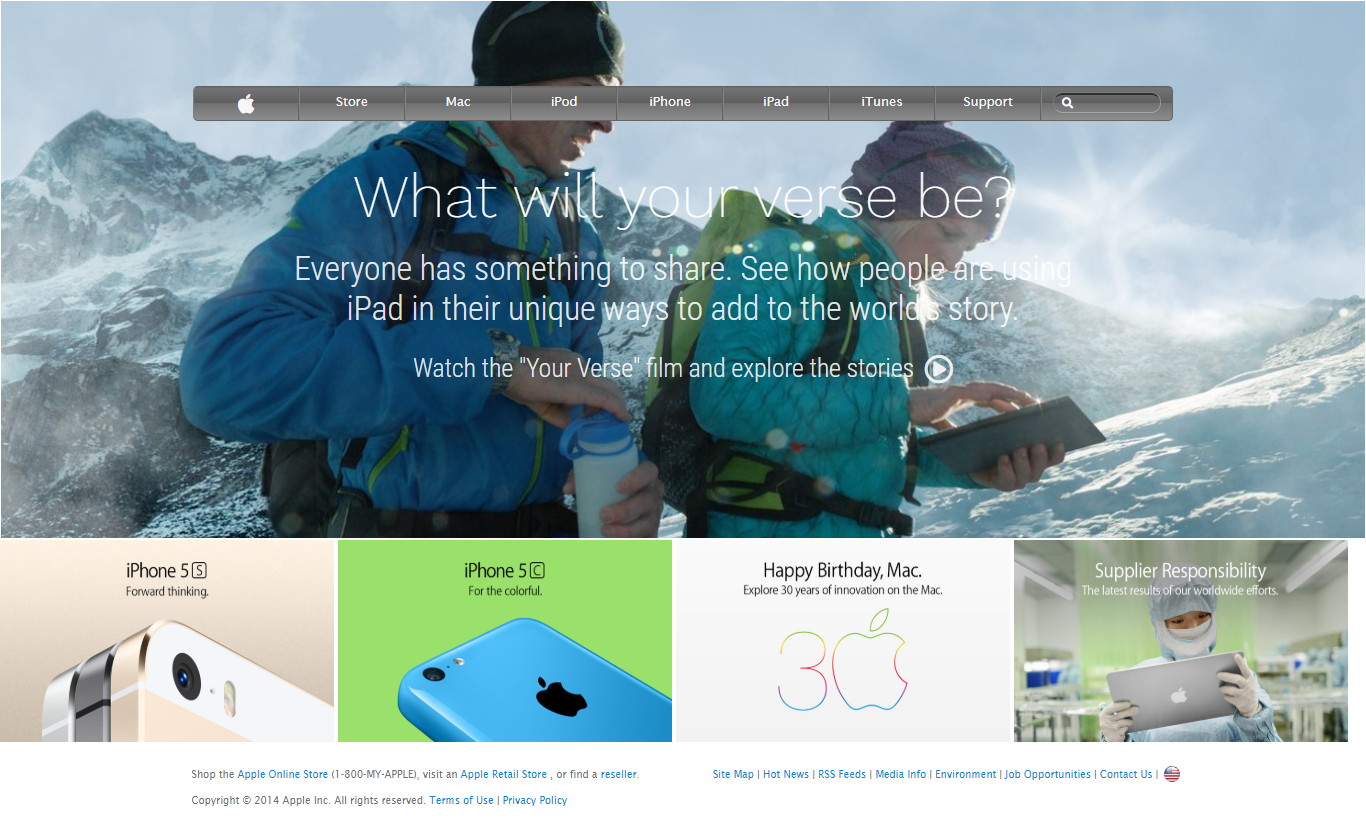
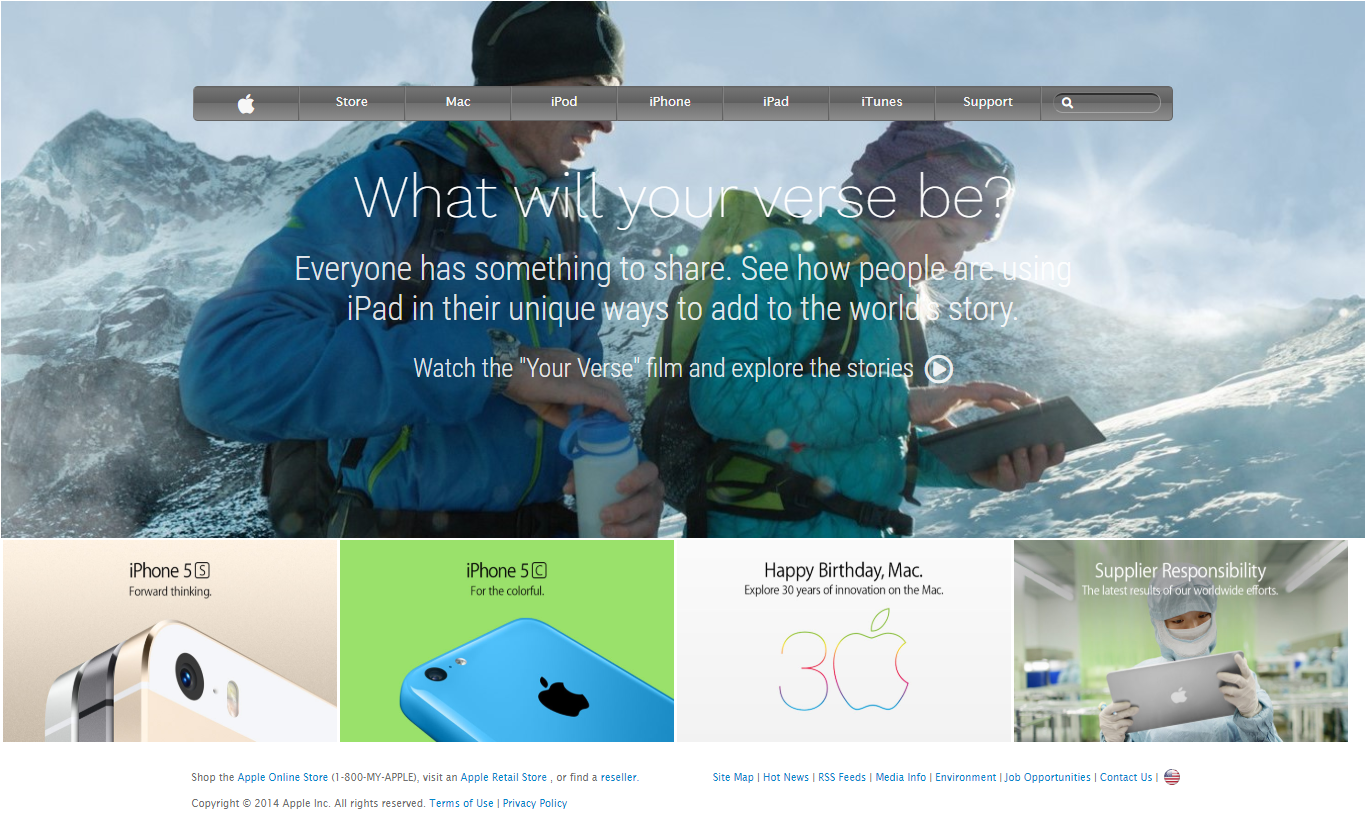
Wrapped nav elements in <a> tag. Wrapped bottom four pictures in <a> tag. Updated readme file. Used float instead of grid on bottom 4 pics

diff --git a/index.html b/index.html
@@ -14,18 +14,33 @@
     <div class="background-div">
       <nav>
         <div class="nav-div">
-          <a href="#" class="nav-link">
+          <span class="nav-link">
             <span class="nav-span nav-head">
-              <i class="fab fa-apple logo-icon"></i>
+              <a href="">
+                <i class="fab fa-apple logo-icon"></i></a>
             </span>
-            <span class="nav-span">Store</span>
-            <span class="nav-span">Mac</span>
-            <span class="nav-span">iPod</span>
-            <span class="nav-span">iPhone</span>
-            <span class="nav-span">iPad</span>
-            <span class="nav-span">iTunes</span>
-            <span class="nav-span">Support</span>
-          </a>
+            <span class="nav-span">
+              <a href="#">Store</a>
+            </span>
+            <span class="nav-span">
+              <a href="#">Mac</a>
+            </span>
+            <span class="nav-span">
+              <a href="#">iPod</a>
+            </span>
+            <span class="nav-span">
+              <a href="#">iPhone</a>
+            </span>
+            <span class="nav-span">
+              <a href="#">iPad</a>
+            </span>
+            <span class="nav-span">
+              <a href="#">iTunes</a>
+            </span>
+            <span class="nav-span">
+              <a href="#">Support</a>
+            </span>
+          </span>
           <span class="nav-span s-box">
             <span class="search-span">
               <input type="text" class="s-input">
@@ -55,11 +70,19 @@
 
     </div>
     <main>
-      <div class="promo-grid-cont">
-        <img src="./images/promo_iphone5s_2x.jpg" alt="iphone 5s">
-        <img src="./images/promo_iphone5c_2x.jpg" alt="iphone 5c">
-        <img src="./images/promo_30_years_2x.jpg" alt="30 years anniversary">
-        <img src="./images/promo_supplier_responsibility_2x.jpg" alt="supplier responsibility">
+      <div class="promo-float-cont">
+        <a href="#" class="img-link">
+          <img src="./images/promo_iphone5s_2x.jpg" alt="iphone 5s">
+        </a>
+        <a href="#" class="img-link">
+          <img src="./images/promo_iphone5c_2x.jpg" alt="iphone 5c">
+        </a>
+        <a href="#" class="img-link">
+          <img src="./images/promo_30_years_2x.jpg" alt="30 years anniversary">
+        </a>
+        <a href="#" class="img-link">
+          <img src="./images/promo_supplier_responsibility_2x.jpg" alt="supplier responsibility">
+        </a>
       </div>
     </main>
     <footer>

diff --git a/style.css b/style.css
@@ -7,7 +7,7 @@
 .background-div {
   background: url(./images/background-img.jpg) no-repeat;
   background-size: cover;
-  width: 100%;
+  min-width: 1350px;
   height: 538px;
   border: 1px solid transparent;
 }
@@ -25,12 +25,10 @@ nav {
 }
 
 .nav-link {
-  text-decoration: none;
   display: flex;
   flex-flow: row nowrap;
   font-family: 'Lucida Sans', 'Lucida Sans Regular', 'Lucida Grande', 'Lucida Sans Unicode', Verdana, sans-serif;
   font-size: 0.8em;
-  color: rgb(247, 247, 247);
 }
 
 .nav-span {
@@ -42,6 +40,14 @@ nav {
   border: 1px solid #646464;
   border-left: 1px outset #808080;
   text-align: center;
+}
+
+.nav-span>a {
+  display: inline-block;
+  width: 100%;
+  height: 100%;
+  text-decoration: none;
+  color: rgb(247, 247, 247);
   padding: 9px;
 }
 
@@ -60,6 +66,7 @@ nav {
   width: 136px;
   border-top-right-radius: 5px;
   border-bottom-right-radius: 5px;
+  padding: 9px;
 }
 
 .s-box:hover {
@@ -114,26 +121,29 @@ nav {
 }
 
 .section-h1 {
-  font-size: 3.8rem;
+  font-size: 60.8px;
   font-weight: 200;
   letter-spacing: 0;
   color: #fff;
+  word-spacing: nowrap;
 }
 
 .section-p1 {
   font-family: 'Roboto Condensed', sans-serif;
-  font-size: 2.1rem;
+  font-size: 33.6px;
   font-weight: 300;
   color: rgba(255, 255, 255, 0.863);
   line-height: 1.2;
+  word-spacing: nowrap;
 }
 
 .section-p2 {
   display: inline-block;
   font-family: 'Roboto Condensed', sans-serif;
-  font-size: 1.6rem;
+  font-size: 25.6px;
   margin-top: 1.2rem;
   color: rgba(255, 255, 255, 0.863);
+  word-spacing: nowrap;
 }
 
 .section-p2:hover {
@@ -144,27 +154,33 @@ nav {
   position: relative;
   top: 3px;
   margin-left: 0.3rem;
-  font-size: 1.8rem;
+  font-size: 28.8px;
 }
 
 /* ============================================== Main section ======================================== */
 
-.promo-grid-cont {
-  display: grid;
-  grid-template-columns: repeat(4, 336px);
-  grid-template-rows: 202px;
-  column-gap: 2px;
+.promo-float-cont {
   margin-top: 2px;
+  min-width: 1348px;
+  overflow: auto;
+}
+
+.img-link {
+  text-decoration: none;
+  float: left;
 }
 
 img[src^="./images/promo"] {
   width: 334px;
   height: 202px;
+  margin-left: 3px;
 }
+
 
 /* =============================================== Footer ================================================ */
 
 .footer-div {
+  clear: left;
   width: 983px;
   margin: 20px auto;
   font-family: 'Lucida Sans', 'Lucida Sans Regular', 'Lucida Grande', 'Lucida Sans Unicode', Geneva, Verdana, sans-serif;

diff --git a/README.md b/README.md
@@ -1,4 +1,4 @@
-# Project Name
+# Building with Backgrounds and Gradients
 
 This project is client side clone of old iPhone home page: https://web.archive.org/web/20140301004610/http://www.apple.com/
 ![screenshot](https://github.com/8Bts/Building-with-Backgrounds-and-Gradients/blob/apple-home/images/app-screenshot.png)
@@ -13,7 +13,7 @@ This project is client side clone of old iPhone home page: https://web.archive.o
 
 ## Live Demo
 
-https://rawcdn.githack.com/8Bts/Building-with-Backgrounds-and-Gradients/66ec639b585ee63a6e8ceca798937cf7191bd593/index.html
+https://rawcdn.githack.com/8Bts/Building-with-Backgrounds-and-Gradients/80e7dc30b94c55f277ce1592f3a332654e4f37f7/index.html
 
 ## Author
 
